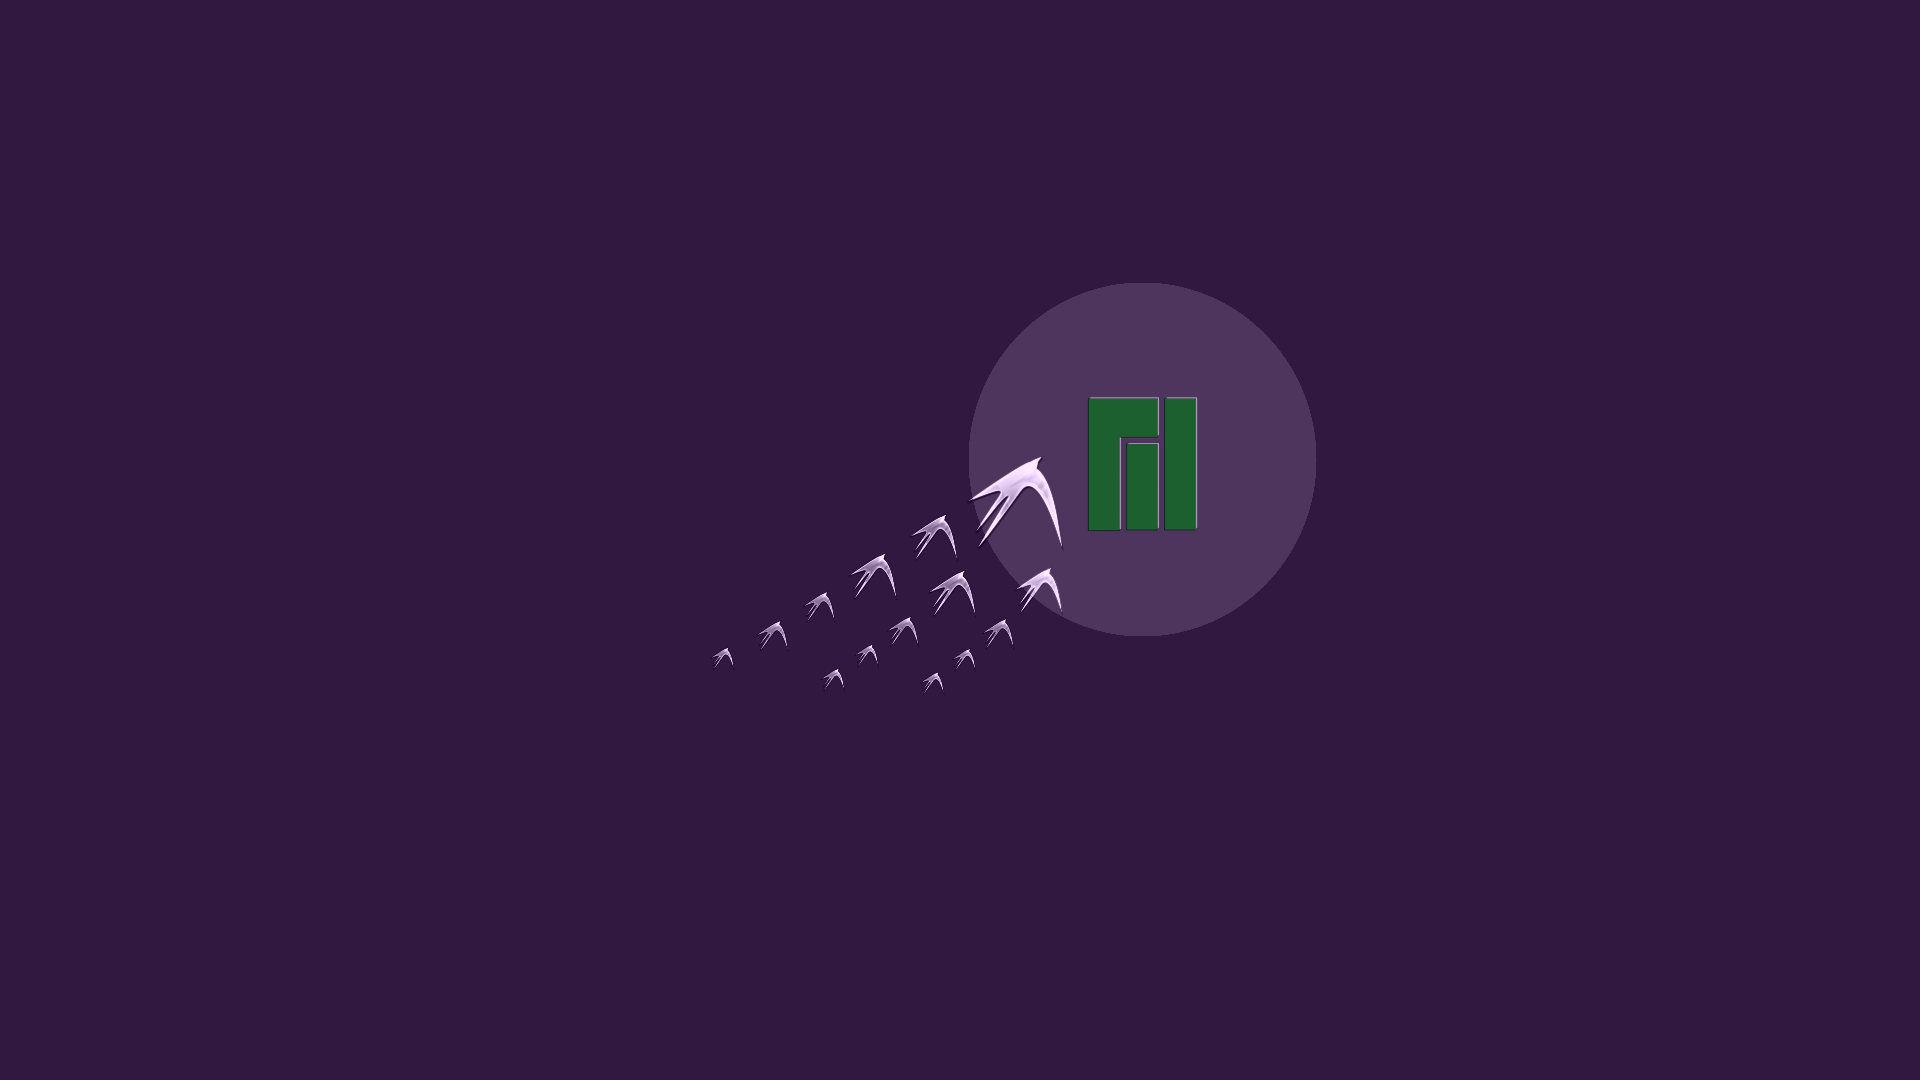
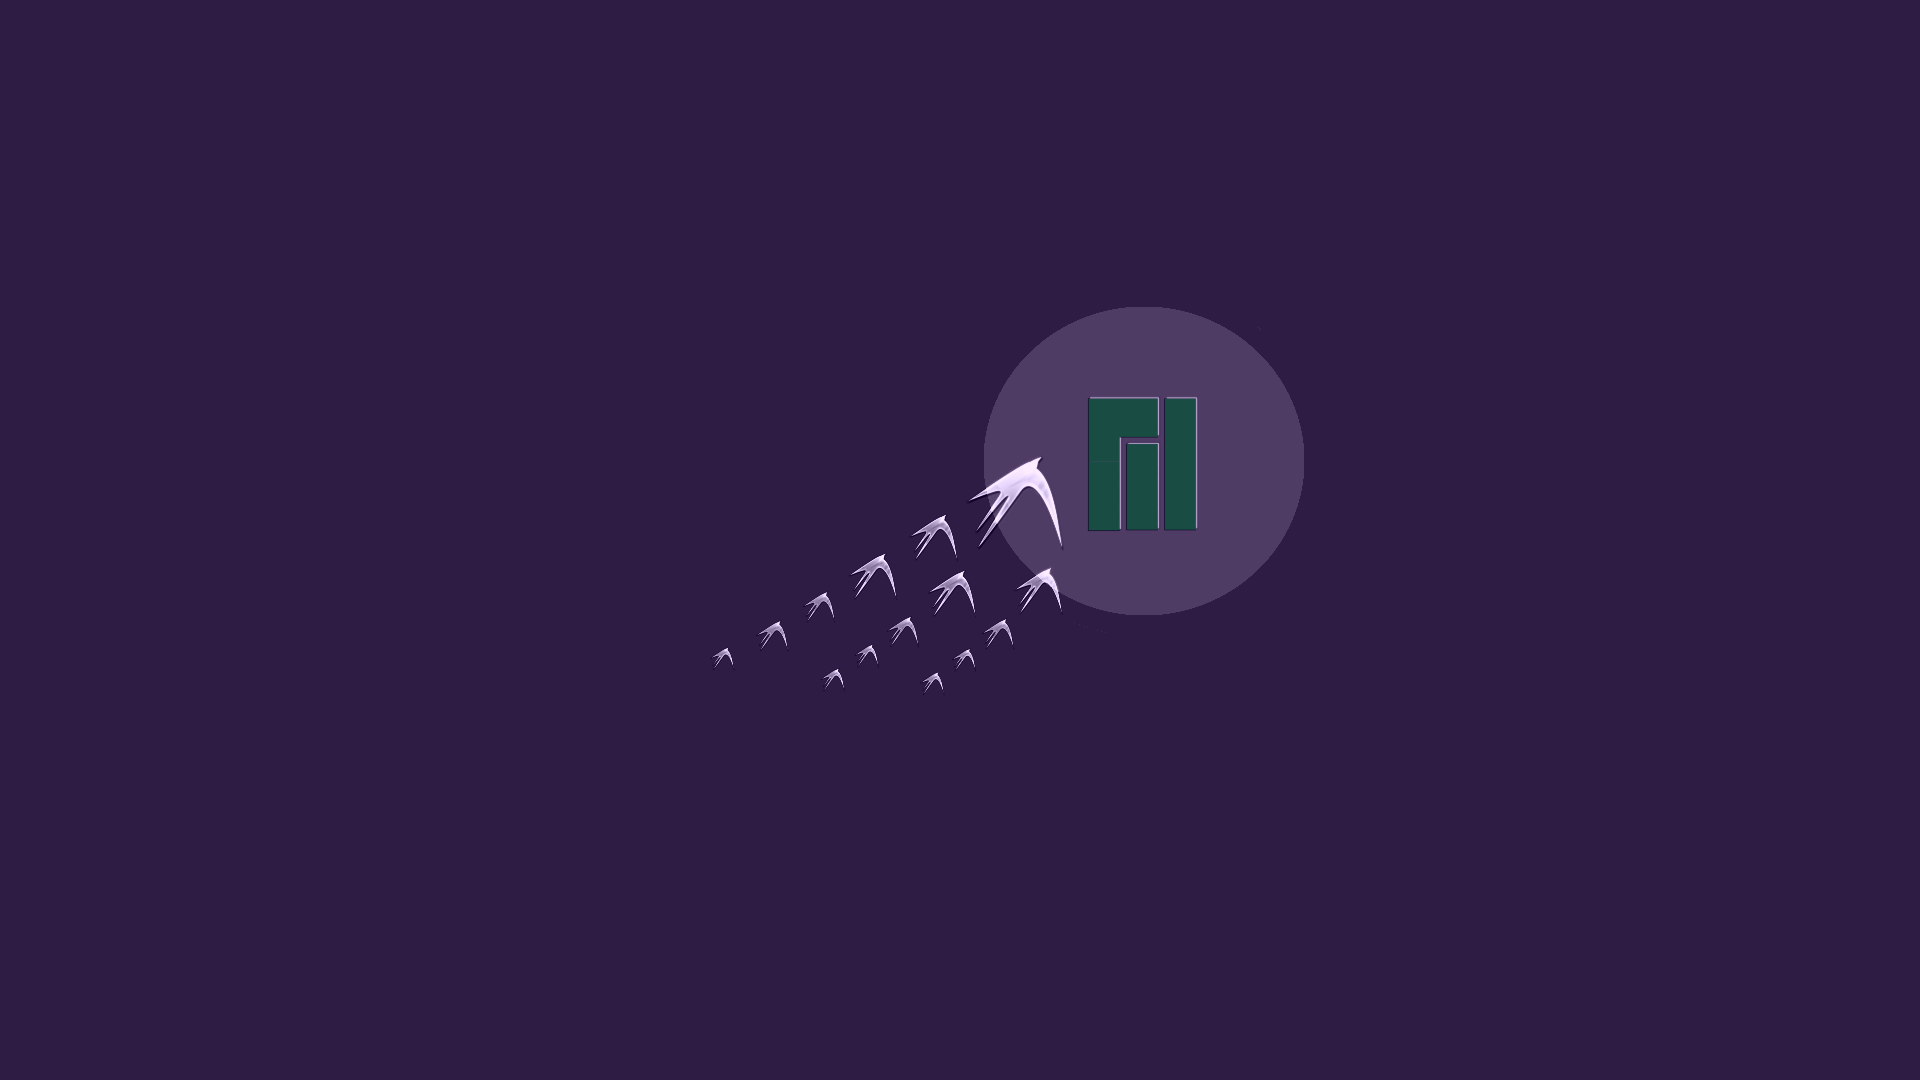
updated glow series

Changed region(s): [[0.5, 0.2444, 0.6875, 0.6111]]

diff --git a/README.md b/README.md
@@ -16,7 +16,7 @@ Creators of the Wallpapers:
 2. lxde-elegant-grape
 3. lxde-elegant-steel
 4. lxde-elegant-teal
-5. lxde-burnt-glow
+5. lxde-ruby-glow
 6. lxde-grape-glow
 7. lxde-sea-glow
 8. lxde-steel-glow
@@ -25,6 +25,6 @@ Creators of the Wallpapers:
 11. lxde-SpacyGrape
 12. lxde-SpacySteel
 
-*LXDE Desktop Wallpapers: lxde-elegant-steel, lxde-elegant-grape, lxde-elegant-teal, lxde-elegant-copper, lxde-burnt-glow, lxde-grape-glow, lxde-sea-glow, lxde-steel-glow, lxde-SpacyBlood, lxde-SpacyGamma, lxde-SpacyGrape and lxde-SpacySteel by Randall T. Lewis are licensed under a Creative Commons Attribution 4.0 International License.
+*LXDE Desktop Wallpapers: lxde-elegant-steel, lxde-elegant-grape, lxde-elegant-teal, lxde-elegant-copper, lxde-ruby-glow, lxde-grape-glow, lxde-sea-glow, lxde-steel-glow, lxde-SpacyBlood, lxde-SpacyGamma, lxde-SpacyGrape and lxde-SpacySteel by Randall T. Lewis are licensed under a Creative Commons Attribution 4.0 International License.
 Based on a work at randalltlewis.com.
 Permissions beyond the scope of this license may be available at randalltlewis.com.*
